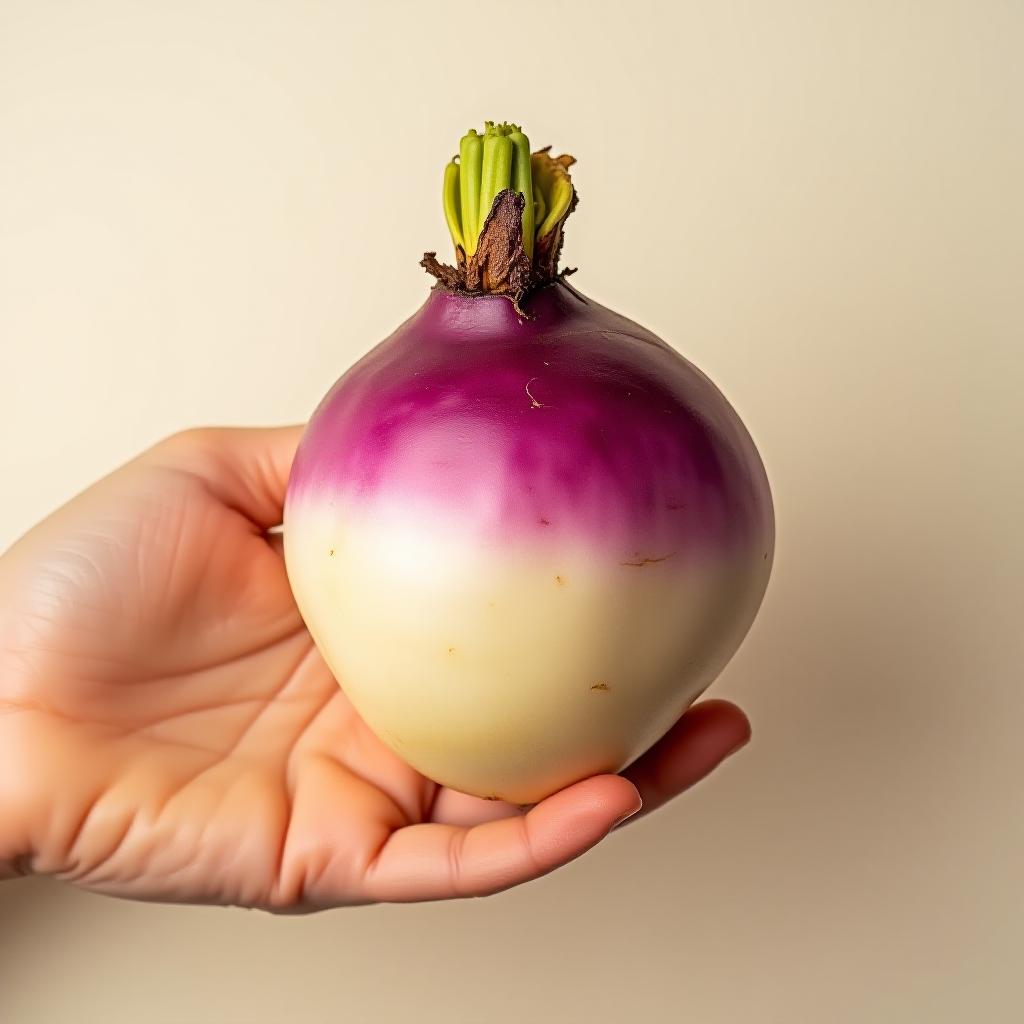
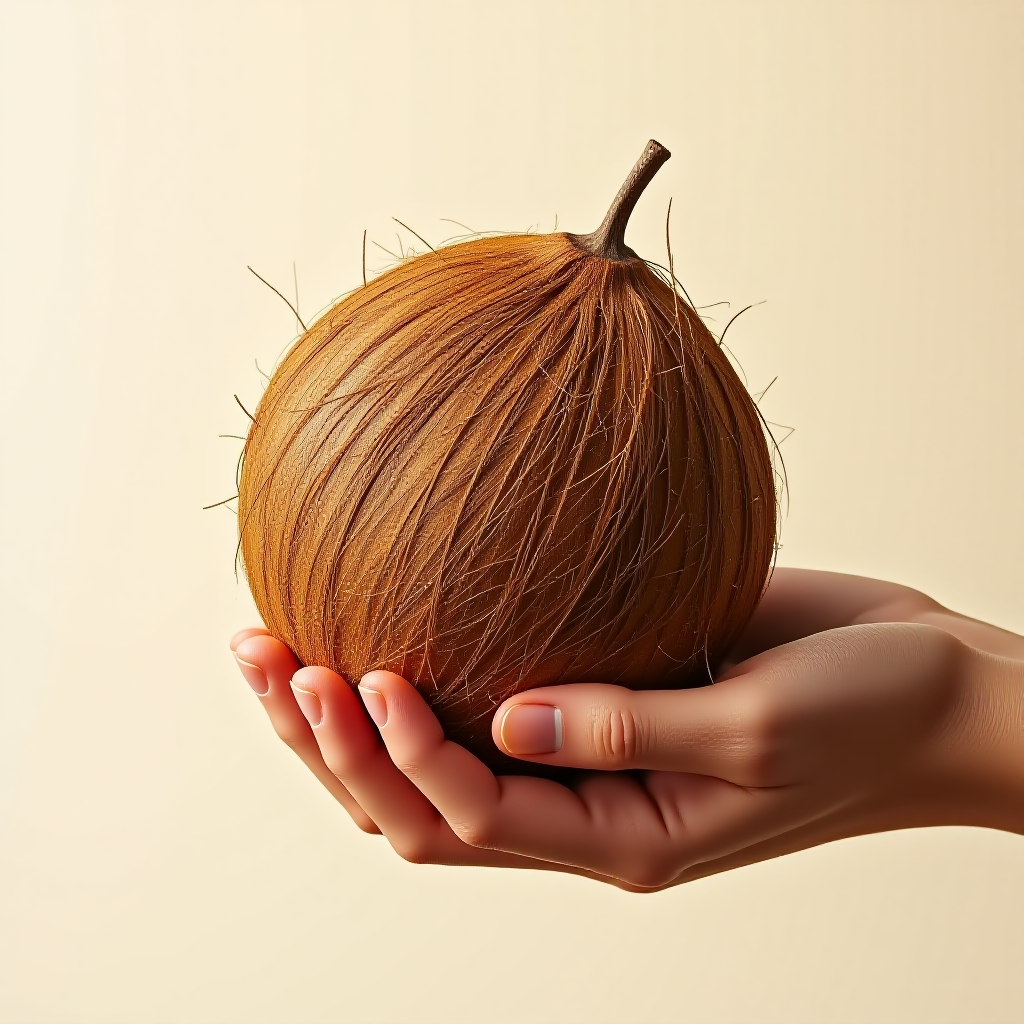
fix: wk27 Cauliflower, wk30 Cabbage; swap wk31 Swede / wk32 Coconut for size flow

diff --git a/27-weeks-pregnant.html b/27-weeks-pregnant.html
@@ -10,7 +10,7 @@
     });
   </script>
   <title>27 Weeks Pregnant: Baby Size, Symptoms & Development | Pregnancy Week Tracker</title>
-  <meta name="description" content="At 27 weeks pregnant, your baby is the size of a Head of Lettuce. Learn about week 27 fetal development, pregnancy symptoms, and calculate your exact due date.">
+  <meta name="description" content="At 27 weeks pregnant, your baby is the size of a Cauliflower. Learn about week 27 fetal development, pregnancy symptoms, and calculate your exact due date.">
   <meta name="msvalidate.01" content="FA7405A0B7623E8A404F74AE4952777C" />
   <link rel="canonical" href="https://www.pregnancyweektracker.com/27-weeks-pregnant.html">
   <link rel="icon" type="image/svg+xml" href="favicon.svg?v=9">
@@ -26,7 +26,7 @@
   <meta property="og:image:secure_url" content="https://www.pregnancyweektracker.com/og-image.png">
   <meta name="twitter:card" content="summary_large_image">
   <meta name="twitter:title" content="27 Weeks Pregnant: Symptoms & Baby Size | Pregnancy Week Tracker">
-  <meta name="twitter:description" content="At 27 weeks pregnant, your baby is the size of a Head of Lettuce. See fetal development, symptoms and tips.">
+  <meta name="twitter:description" content="At 27 weeks pregnant, your baby is the size of a Cauliflower. See fetal development, symptoms and tips.">
   <meta name="twitter:image" content="https://www.pregnancyweektracker.com/og-image.png">
   <!-- Google Fonts -->
   <link rel="preconnect" href="https://fonts.googleapis.com">
@@ -43,7 +43,7 @@
     "@context": "https://schema.org",
     "@type": "Article",
     "headline": "27 Weeks Pregnant: Baby Size, Symptoms & Development",
-    "description": "At 27 weeks pregnant, your baby is the size of a Head of Lettuce. Learn about week 27 fetal development, pregnancy symptoms, and calculate your exact due date.",
+    "description": "At 27 weeks pregnant, your baby is the size of a Cauliflower. Learn about week 27 fetal development, pregnancy symptoms, and calculate your exact due date.",
     "url": "https://www.pregnancyweektracker.com/27-weeks-pregnant.html",
     "image": "https://www.pregnancyweektracker.com/og-image.png",
     "publisher": {{
@@ -79,7 +79,7 @@
     <section class="hero">
       <span style="background: var(--primary-light); color: var(--primary); padding: 4px 12px; border-radius: 99px; font-weight: 600; font-size: 0.8rem; text-transform: uppercase;">Pregnancy Guide</span>
       <h1>27 Weeks Pregnant</h1>
-      <p style="color: var(--text-muted); max-width: 600px; margin: 0 auto;">Your baby is the size of a Head of Lettuce. Discover exactly what is happening to your body and your baby this week.</p>
+      <p style="color: var(--text-muted); max-width: 600px; margin: 0 auto;">Your baby is the size of a Cauliflower. Discover exactly what is happening to your body and your baby this week.</p>
     </section>
 
     <div class="container" style="max-width:900px; margin:0 auto; padding-top: 30px;">

diff --git a/32-weeks-pregnant.html b/32-weeks-pregnant.html
@@ -10,7 +10,7 @@
     });
   </script>
   <title>32 Weeks Pregnant: Baby Size, Symptoms & Development | Pregnancy Week Tracker</title>
-  <meta name="description" content="At 32 weeks pregnant, your baby is the size of a Large Turnip. Learn about week 32 fetal development, pregnancy symptoms, and calculate your exact due date.">
+  <meta name="description" content="At 32 weeks pregnant, your baby is the size of a Coconut. Learn about week 32 fetal development, pregnancy symptoms, and calculate your exact due date.">
   <meta name="msvalidate.01" content="FA7405A0B7623E8A404F74AE4952777C" />
   <link rel="canonical" href="https://www.pregnancyweektracker.com/32-weeks-pregnant.html">
   <link rel="icon" type="image/svg+xml" href="favicon.svg?v=9">
@@ -26,7 +26,7 @@
   <meta property="og:image:secure_url" content="https://www.pregnancyweektracker.com/og-image.png">
   <meta name="twitter:card" content="summary_large_image">
   <meta name="twitter:title" content="32 Weeks Pregnant: Symptoms & Baby Size | Pregnancy Week Tracker">
-  <meta name="twitter:description" content="At 32 weeks pregnant, your baby is the size of a Large Turnip. See fetal development, symptoms and tips.">
+  <meta name="twitter:description" content="At 32 weeks pregnant, your baby is the size of a Coconut. See fetal development, symptoms and tips.">
   <meta name="twitter:image" content="https://www.pregnancyweektracker.com/og-image.png">
   <!-- Google Fonts -->
   <link rel="preconnect" href="https://fonts.googleapis.com">
@@ -43,7 +43,7 @@
     "@context": "https://schema.org",
     "@type": "Article",
     "headline": "32 Weeks Pregnant: Baby Size, Symptoms & Development",
-    "description": "At 32 weeks pregnant, your baby is the size of a Large Turnip. Learn about week 32 fetal development, pregnancy symptoms, and calculate your exact due date.",
+    "description": "At 32 weeks pregnant, your baby is the size of a Coconut. Learn about week 32 fetal development, pregnancy symptoms, and calculate your exact due date.",
     "url": "https://www.pregnancyweektracker.com/32-weeks-pregnant.html",
     "image": "https://www.pregnancyweektracker.com/og-image.png",
     "publisher": {{
@@ -79,7 +79,7 @@
     <section class="hero">
       <span style="background: var(--primary-light); color: var(--primary); padding: 4px 12px; border-radius: 99px; font-weight: 600; font-size: 0.8rem; text-transform: uppercase;">Pregnancy Guide</span>
       <h1>32 Weeks Pregnant</h1>
-      <p style="color: var(--text-muted); max-width: 600px; margin: 0 auto;">Your baby is the size of a Large Turnip. Discover exactly what is happening to your body and your baby this week.</p>
+      <p style="color: var(--text-muted); max-width: 600px; margin: 0 auto;">Your baby is the size of a Coconut. Discover exactly what is happening to your body and your baby this week.</p>
     </section>
 
     <div class="container" style="max-width:900px; margin:0 auto; padding-top: 30px;">

diff --git a/31-weeks-pregnant.html b/31-weeks-pregnant.html
@@ -10,7 +10,7 @@
     });
   </script>
   <title>31 Weeks Pregnant: Baby Size, Symptoms & Development | Pregnancy Week Tracker</title>
-  <meta name="description" content="At 31 weeks pregnant, your baby is the size of a Coconut. Learn about week 31 fetal development, pregnancy symptoms, and calculate your exact due date.">
+  <meta name="description" content="At 31 weeks pregnant, your baby is the size of a Swede. Learn about week 31 fetal development, pregnancy symptoms, and calculate your exact due date.">
   <meta name="msvalidate.01" content="FA7405A0B7623E8A404F74AE4952777C" />
   <link rel="canonical" href="https://www.pregnancyweektracker.com/31-weeks-pregnant.html">
   <link rel="icon" type="image/svg+xml" href="favicon.svg?v=9">
@@ -26,7 +26,7 @@
   <meta property="og:image:secure_url" content="https://www.pregnancyweektracker.com/og-image.png">
   <meta name="twitter:card" content="summary_large_image">
   <meta name="twitter:title" content="31 Weeks Pregnant: Symptoms & Baby Size | Pregnancy Week Tracker">
-  <meta name="twitter:description" content="At 31 weeks pregnant, your baby is the size of a Coconut. See fetal development, symptoms and tips.">
+  <meta name="twitter:description" content="At 31 weeks pregnant, your baby is the size of a Swede. See fetal development, symptoms and tips.">
   <meta name="twitter:image" content="https://www.pregnancyweektracker.com/og-image.png">
   <!-- Google Fonts -->
   <link rel="preconnect" href="https://fonts.googleapis.com">
@@ -43,7 +43,7 @@
     "@context": "https://schema.org",
     "@type": "Article",
     "headline": "31 Weeks Pregnant: Baby Size, Symptoms & Development",
-    "description": "At 31 weeks pregnant, your baby is the size of a Coconut. Learn about week 31 fetal development, pregnancy symptoms, and calculate your exact due date.",
+    "description": "At 31 weeks pregnant, your baby is the size of a Swede. Learn about week 31 fetal development, pregnancy symptoms, and calculate your exact due date.",
     "url": "https://www.pregnancyweektracker.com/31-weeks-pregnant.html",
     "image": "https://www.pregnancyweektracker.com/og-image.png",
     "publisher": {{
@@ -79,7 +79,7 @@
     <section class="hero">
       <span style="background: var(--primary-light); color: var(--primary); padding: 4px 12px; border-radius: 99px; font-weight: 600; font-size: 0.8rem; text-transform: uppercase;">Pregnancy Guide</span>
       <h1>31 Weeks Pregnant</h1>
-      <p style="color: var(--text-muted); max-width: 600px; margin: 0 auto;">Your baby is the size of a Coconut. Discover exactly what is happening to your body and your baby this week.</p>
+      <p style="color: var(--text-muted); max-width: 600px; margin: 0 auto;">Your baby is the size of a Swede. Discover exactly what is happening to your body and your baby this week.</p>
     </section>
 
     <div class="container" style="max-width:900px; margin:0 auto; padding-top: 30px;">

diff --git a/script.js b/script.js
@@ -501,11 +501,11 @@
     },
     { 
       week: 27, 
-      size: 'Cabbage', 
+      size: 'Cauliflower', 
       size_mm: 370.0, 
-      emoji: '🥬', 
-      fruitEmoji: '🥬', 
-      fruitLabel: 'Cabbage', 
+      emoji: '🥦', 
+      fruitEmoji: '🥦', 
+      fruitLabel: 'Cauliflower', 
       objectEmoji: '🍼', 
       objectLabel: '2-Litre Bottle', 
       baby: "Welcome to the third trimester! Baby weighs about 900g. Lungs are maturing but still need more time. Baby practises breathing by inhaling amniotic fluid.", 
@@ -546,8 +546,8 @@
       week: 30, 
       size: 'Cabbage', 
       size_mm: 395.0, 
-      emoji: '🟢', 
-      fruitEmoji: '🟢', 
+      emoji: '🥬', 
+      fruitEmoji: '🥬', 
       fruitLabel: 'Cabbage', 
       objectEmoji: '🎳', 
       objectLabel: 'Bowling Ball', 
@@ -558,11 +558,11 @@
     },
     { 
       week: 31, 
-      size: 'Coconut', 
+      size: 'Swede', 
       size_mm: 405.0, 
-      emoji: '🥥', 
-      fruitEmoji: '🥥', 
-      fruitLabel: 'Coconut', 
+      emoji: '🥔', 
+      fruitEmoji: '🥔', 
+      fruitLabel: 'Swede', 
       objectEmoji: '🖥', 
       objectLabel: 'Monitor Base', 
       baby: "Baby can turn its head. Five senses are almost fully developed. Brain growth is accelerating. Baby's pupils react to light now.", 
@@ -572,11 +572,11 @@
     },
     { 
       week: 32, 
-      size: 'Large Turnip', 
+      size: 'Coconut', 
       size_mm: 420.0, 
-      emoji: '🫚', 
-      fruitEmoji: '🫚', 
-      fruitLabel: 'Large Turnip', 
+      emoji: '🥥', 
+      fruitEmoji: '🥥', 
+      fruitLabel: 'Coconut', 
       objectEmoji: '🧰', 
       objectLabel: '17-inch Tool Box', 
       baby: "Baby weighs about 1.8kg. Survival rate if born now is over 95% with good neonatal care. Baby often moves into the head-down position this week.", 
